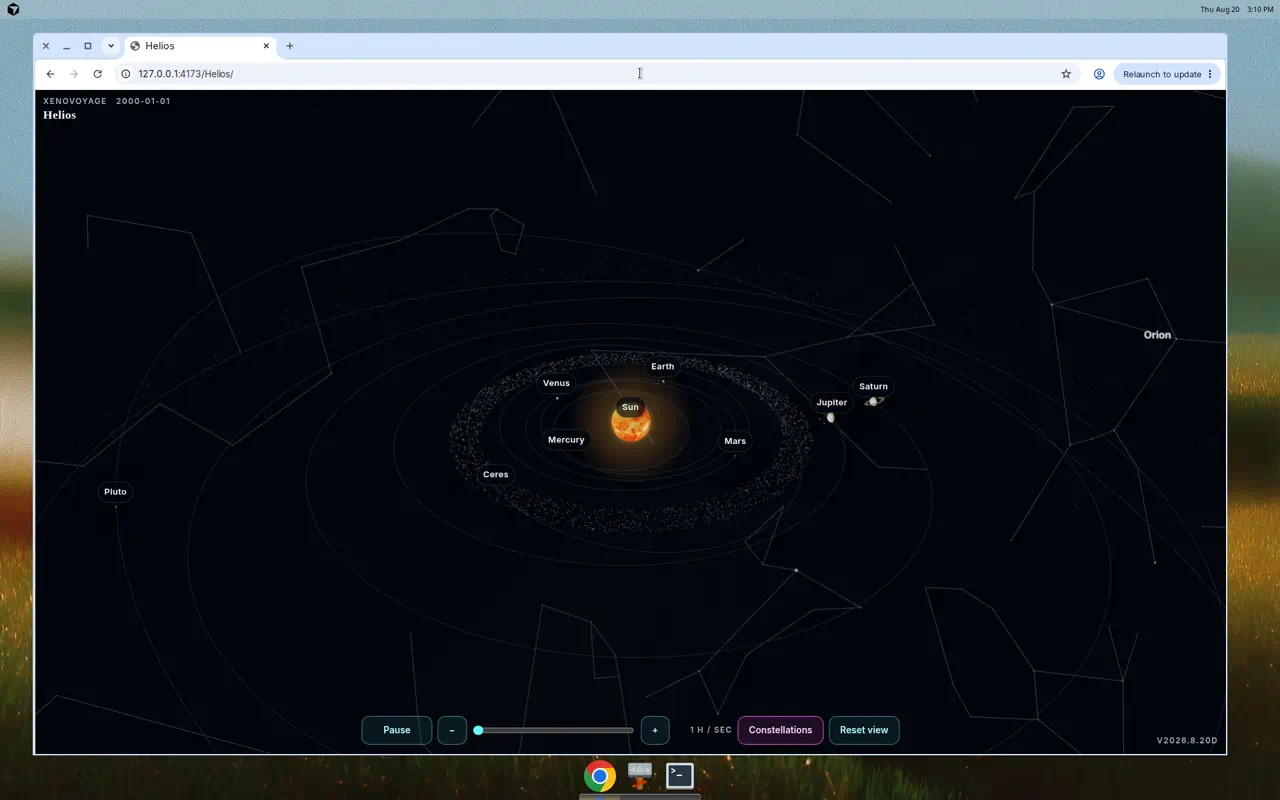
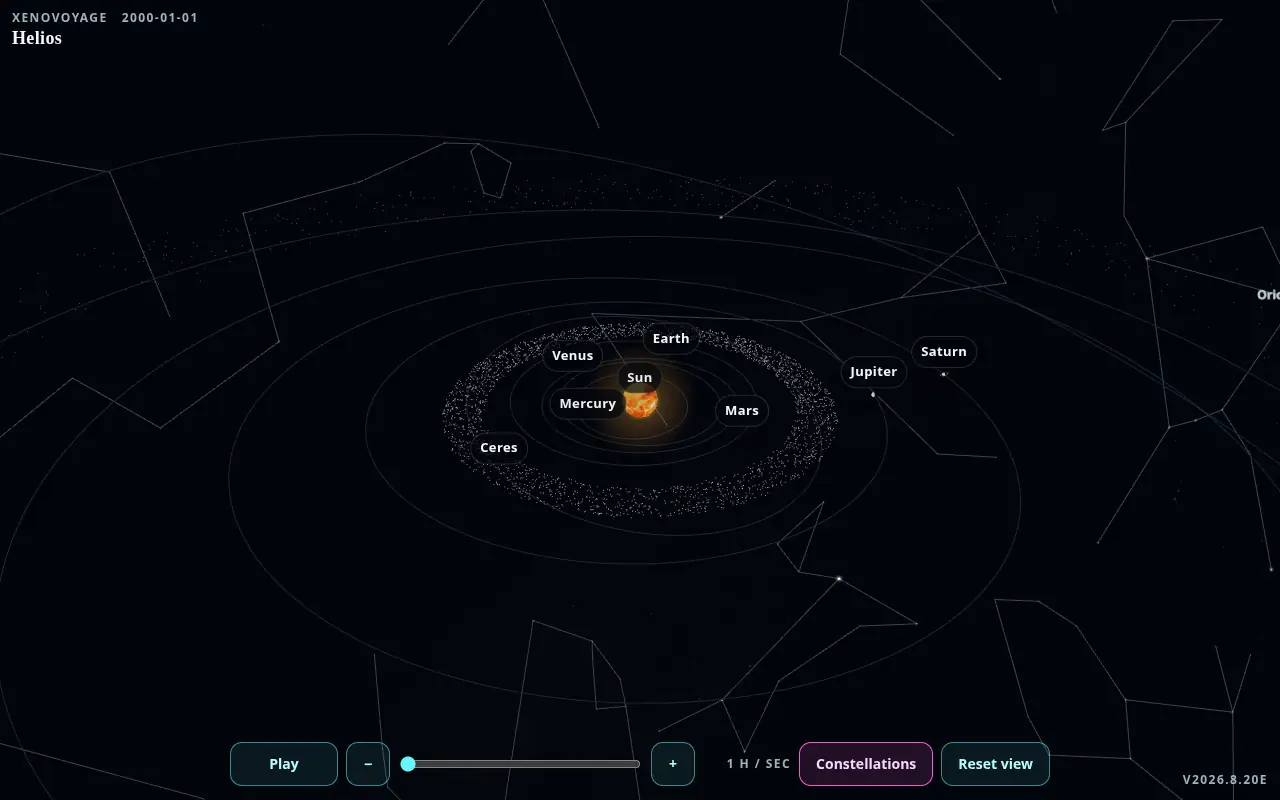
Visual scale pass: spread inner planets, truer body sizes
* Visual scale pass: spread inner planets, truer body sizes

Raise visualScale and orbitPower so Venus, Earth, and Mars no longer clump, and map sizes through a steeper shared curve so the Moon, Jupiter, and the Sun read closer to real ratios without a moon-only shrink.

* Update overview and Titan shots for the visual-scale pass

Replace the README WebGL stills so they match v2026.8.20e spacing and the closer Titan ring clearance. Leave the constellation still; label sizing did not change.

* Audit catalog against NASA/JPL and tighten the overview

Ganymede's mean radius now follows JPL SSD phys_par (IAU 2015). Triton's J2000 mean anomaly was a leftover 0; it now matches NEP097. Bring the default camera in so Pluto still clears and the inner planets occupy more of the overview.

* Refresh the overview still for the closer default camera

---------

diff --git a/js/bodies.js b/js/bodies.js
@@ -8,6 +8,10 @@ const TAU = Math.PI * 2;
  * Distances: AU for heliocentric bodies, km for moons.
  * Periods: Earth days. Rotation: hours (negative = retrograde).
  * Tilts and inclinations: degrees. Epoch angles are J2000 approximations.
+ *
+ * Physical numbers follow the NASA planetary fact sheet where it and JPL
+ * agree, and JPL SSD satellite phys_par (IAU WGCCRE 2015) for moons.
+ * Heliocentric Kepler angles stay J2000 approximations, not Horizons.
  */
 export const BODIES = Object.freeze([
   {
@@ -233,7 +237,7 @@ export const BODIES = Object.freeze([
     name: "Ganymede",
     kind: "moon",
     parent: "jupiter",
-    radiusKm: 2634.1,
+    radiusKm: 2631.2,
     orbitKm: 1070400,
     eccentricity: 0.0013,
     inclinationDeg: 0.177,
@@ -351,7 +355,8 @@ export const BODIES = Object.freeze([
     inclinationDeg: 156.865,
     nodeDeg: 167.71,
     periDeg: 0,
-    meanAnomalyDeg: 0,
+    // JPL NEP097 mean elements at J2000; M was incorrectly left at 0.
+    meanAnomalyDeg: 63,
     orbitDays: -5.877,
     rotationHours: -141.048,
     tiltDeg: 0,
@@ -386,10 +391,9 @@ export function visualRadius(radiusKm) {
   return CONFIG.sizeScale * (radiusKm / CONFIG.earthRadiusKm) ** CONFIG.sizePower;
 }
 
-/** Displayed globe size. Moons use a visual-only shrink so siblings stay readable. */
+/** Displayed globe size. Moons share the size curve; moonSizeScale is 1. */
 export function visualBodyRadius(body) {
-  const radius = visualRadius(body.radiusKm);
-  return body.kind === "moon" ? radius * CONFIG.moonSizeScale : radius;
+  return visualRadius(body.radiusKm) * (body.kind === "moon" ? CONFIG.moonSizeScale : 1);
 }
 
 export function visualOrbit(orbitAu) {

diff --git a/js/config.js b/js/config.js
@@ -7,24 +7,26 @@
  * visualScale is the one spacing knob: it multiplies the compressed orbit
  * curve (orbitScale * AU^orbitPower). Raise it to spread the system; do not
  * invent fake AU values. sizeScale / sizePower size the spheres the same way.
+ * Moons share that size curve (moonSizeScale 1).
  */
 export const CONFIG = Object.freeze({
-  VERSION: "v2026.8.20d",
+  VERSION: "v2026.8.20e",
   earthRadiusKm: 6371,
   auKm: 149597870.7,
-  visualScale: 1.75,
-  sizeScale: 1,
-  sizePower: 0.55,
+  visualScale: 2.6,
+  sizeScale: 0.4,
+  sizePower: 0.82,
   orbitScale: 40,
-  orbitPower: 0.45,
+  orbitPower: 0.58,
   moonPad: 0.4,
-  moonSpread: 0.45,
+  moonSpread: 0.35,
   // Extra visual space between sibling moon paths after radii are reserved.
-  moonSiblingGap: 1.05,
+  moonSiblingGap: 1.5,
   moonOrbitCap: 6,
   // Moons sit just outside rings; do not push them to 1.5× the ring radius.
   moonRingGap: 0.25,
-  moonSizeScale: 0.72,
+  // 1 = no extra moon shrink; Phobos/Deimos stay tiny from sizePower alone.
+  moonSizeScale: 1,
   defaultDaysPerSecond: 1 / 24,
   minDaysPerSecond: 1 / 24,
   maxDaysPerSecond: 400,
@@ -35,11 +37,11 @@ export const CONFIG = Object.freeze({
   kuiperCount: 880,
   kuiperInnerAu: 30.2,
   kuiperOuterAu: 50,
-  cameraDistance: 460,
+  cameraDistance: 880,
   cameraElevation: 0.5,
   cameraAzimuth: 0.55,
   minDistance: 2.4,
-  maxDistance: 980,
+  maxDistance: 1650,
   // Celestial sphere sits around the camera; far plane must clear it.
   skyRadius: 2000,
   cameraFar: 4200,

diff --git a/README.md b/README.md
@@ -1,6 +1,6 @@
 # Helios
 
-[![Version v2026.8.20d](https://img.shields.io/badge/version-v2026.8.20d-66f7ff)](VERSION.txt)
+[![Version v2026.8.20e](https://img.shields.io/badge/version-v2026.8.20e-66f7ff)](VERSION.txt)
 [![MIT](https://img.shields.io/badge/license-MIT-a77bff)](LICENSE)
 
 An interactive 3D orrery of the solar system.
@@ -29,7 +29,7 @@ Helios is a local page: no accounts, no telemetry, and no CDN.
 
 ## Visual scale
 
-True 1:1 distances make every planet vanish beside the Sun. Helios keeps published NASA / JPL periods, spins, tilts, radii, and Keplerian elements, then compresses **distances more than sizes** so the system can be read at a glance. The one planet-spacing knob is `CONFIG.visualScale` in `js/config.js`. Moon distances stay outside their parent, just outside any rings, and outside a readable gap from the next inner sibling. Time is a separate slider.
+True 1:1 distances make every planet vanish beside the Sun. Helios keeps published NASA / JPL periods, spins, tilts, radii, and Keplerian elements, then compresses **distances more than sizes** so the system can be read at a glance. The one planet-spacing knob is `CONFIG.visualScale` in `js/config.js`; it multiplies a compressed AU curve (`orbitScale * AU^orbitPower`). Body sizes use the same kind of curve (`sizeScale * (radius/Earth)^sizePower`). Moons share that size curve. Moon distances stay a compressed real-radii map: outside their parent, just outside any rings, and outside a readable gap from the next inner sibling. Time is a separate slider.
 
 ## Run locally
 
